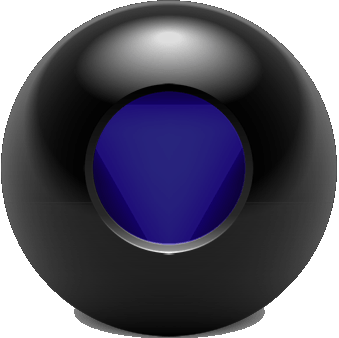
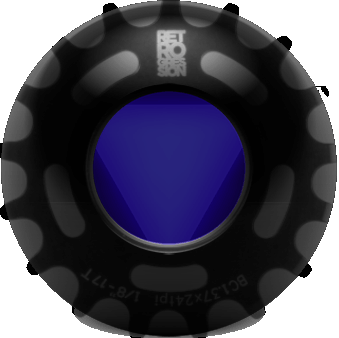
fixed gear

diff --git a/src/main.ts b/src/main.ts
@@ -9,72 +9,46 @@ const fontSizethreshold = 85;
 let currentOption: string | undefined = undefined;
 
 const options = [
-  "Ты забудешь переключиться на правильную ветку и запушишь прямо в `master`",
-  "Твоя следующая миграция базы данных пройдет без ошибок",
-  "Сегодня ты случайно решишь баг, который долго не давал покоя",
-  "Кто-то оставит комментарий в твоем PR, который полностью изменит твою реализацию",
-  "Скоро ты обнаружишь, что дебаггер — твой лучший друг",
-  "Забудешь про `git stash` и потеряешь важные изменения",
-  "В следующем спринте ты станешь героем команды благодаря оптимизации",
-  "Твоя следующая попытка настроить окружение пройдет без боли",
-  "Пакет, на который ты полагаешься, внезапно перестанет поддерживаться",
-  "Твой тест-кейс поймает критический баг в проде",
-  "Напишешь компонент, который идеально соответствует дизайну",
-  "Твой пайплайн внезапно перестанет работать на пустом месте",
-  "Запушишь .env с кредами от прода в master",
-  "Новая версия твоего любимого фреймворка сломает половину твоего проекта",
-  "Кто-то похвалит твой код на ревью",
-  "Ты потратишь час, пытаясь найти незакрытую скобку",
-  "Скоро ты найдешь библиотеку, которая сделает твою задачу в разы проще",
-  "Ты будешь разбираться с merge conflict на протяжении нескольких часов",
-  "Твое решение по доработке логики зарелизит проект до дедлайна",
-  "Перед комитом ты поймешь, что лучше переписать модуль с нуля",
-  "Твоя команда наконец вернется к использованию jQuery",
-  "В коде появится `console.log('here')`, который попадет в прод",
-  "Ты станешь мастером использования `git rebase`",
-  "Ты случайно удалишь ветку, а затем долго будешь ее восстанавливать",
-  "Твой следующий PR будет принят без единого комментария",
-  "Перепишешь проект на другой фреймворк",
-  "Новая зависимость в проекте окажется полной головной болью",
-  "Кто-то предложит архитектурное решение, которое тебе не понравится, но оно сработает",
-  "Ты забудешь про `npm i` и удивишься, почему ничего не работает",
-  "Твой сайт заблокирует РКН",
-  "Уронишь прод (опять)",
-  "Начнешь менторить",
-  "Проспишь стендап (опять)",
-  "Пропадет интернет на твоей очереди говорить на стендапе",
-  "Будешь месяц разбираться с флаки тестами",
-  "Коллеги будут гадать почему тебе вообще платят зарплату",
-  "Заведешь блог по разработке или про мемы",
-  "Купишь эргономичную клавиатуру, но это не поможет",
-  "Будешь работать за лида",
-  "Тебе повысят грейд, но не зп",
-  "Выступишь на HolyJs",
-  "Твоя PR-ветка будет называться fix-final-really-final",
-  "Получишь баг-репорт без шагов воспроизведения и с текстом 'не работает'",
-  "Упадет сервер, и тебе придется дебажить в пятницу вечером",
-  "Забудешь про дедлайн и вспомнишь только в день релиза",
-  "Кто-то сделает force-push в твою ветку",
-  "Будешь дебажить проблему, которая исправится после перезагрузки",
-  "Пропустишь важное сообщение в Slack, а потом пожалеешь об этом",
-  "Сделаешь hotfix на продакшене и сломаешь другой модуль",
-  "Перейдешь на проект с поддержкой IE и Symbian",
-  "На созвоне забудешь про вебку и микрофон и светанешь яйцами",
-  "Случайно отправишь дикпик лиду",
-  "СЕО услышит как ты на самом деле его называешь при коллегах",
-  "Коллеги увидят твой персональный Github и ужаснутся",
-  "Получишь 3000 звезд на Github",
-  "Наконец разберешься с чистой архитектурой",
-  "Твой pet-project станет стартапом года",
-  "Будешь работать над проектом, который войдет в топ GitHub",
-  "Найдешь способ ускорить CI на 90%",
-  "Решишь 10-летнюю проблему команды одним коммитом",
-  "Напишешь код, который никто не сможет улучшить",
-  "Напишешь код с мемори ликами",
-  "Окажется, что твой код уже используют в NASA",
-  "Случайно сделаешь вирусный проект за один вечер",
-  "Твое резюме будет просматривать только СберТех",
-  "Пройдешь алго сессию в Авито за 15 минут",
+  "Купишь мультиспид, кикнут из FG чата",
+  "Соберешь сетап за 200к на алике (потеряется в доставке)",
+  "Шестигранник будет всегда с тобой (проглотишь по синьке)",
+  "Разъебешь камаз на встречке",
+  "Пробьешься дважды в один день",
+  "Перейдешь на безкамерки и будешь часами доказывать в чате что это топ",
+  "Проедешь SKVOZ первым (потом проснешься)",
+  "Проедешь HotLine по Саратову, но корешь забудет включить REC",
+  "Перейдешь на 51/16 и будешь страдать",
+  "Поставишь катафотики (лох)",
+  "Разложишься на рельсах так, что прохожие будут апплодировать",
+  "Погнешь спицы открывая пиво о колесо",
+  "Перейдешь на карбон (но быстрее ездить не станешь)",
+  "Поймешь, что нужно было брать седло с дыркой (но будет поздно)",
+  "Перейдешь на контакты, но следующий сезон будешь копить на ботинки",
+  "Будешь дальше дрочить на Cinelli, но так и не купишь",
+  "Научишься делать bunny hop",
+  "Начнешь курьерить для души",
+  "Депсы поймают за проезд на красный",
+  "Шлем наконец то пригодится",
+  "Тебя поймает полиция зазоров",
+  "Твой вел будет 1923 в bikecheckbot",
+  "Узнаешь, что в велопамперс не надо было срать",
+  "Твоя средняя - 40 в этом сезоне (все думают что ты пиздишь)",
+  "Спиздят задний фонарь (но ты его тоже спиздил)",
+  "Научишься скидить (заебешься менять покрышки)",
+  "Начнешь попадать в стрепы неглядя",
+  "Твое лицо на стикерах FG твоего города",
+  "Из-за твоего стиля езды кореша начнут думать, что ты натурал",
+  "Начнешь брить ноги ради аэродинамики",
+  "Погнешь раму и твоя реакция на это станет мемом в чате",
+  "Въебешься в курьера (получишь пиццу в качестве извенений)",
+  "Твой вел угонят, но поймут что гейская хуйня и вернут",
+  "Станешь дальтоником и будешь спокойно ездить на серый",
+  "Поставишь 2 тормоза, кикнут из FG чата",
+  "Купишь джерси (максимально гейскую)",
+  "Пафосно въебешься в толпу пешеходов на красном",
+  "Мать узнает что такое fixed gear и вызовет дурку",
+  "Скрип твоей каретки будет слышно за 2 квартала",
+  "Отец пропьет твой вилсет (и это будет финансово правильно)",
 ];
 
 const main = document.querySelector("#ball");
@@ -166,15 +140,15 @@ async function share(e: MouseEvent) {
   if (
     navigator.canShare &&
     navigator.canShare({
-      title: "Mагический шар - Coder Edition",
+      title: "Mагический шар - Fixed Gear Edition",
       url: "https://jem-space.ru/ball",
-      text: `В 2025 мне нагадали: ${currentOption} `,
+      text: `В 2026 мне нагадали: ${currentOption} `,
     })
   ) {
     try {
       await navigator.share({
-        title: "Mагический шар - Coder Edition",
-        text: `В 2025 мне нагадали: ${currentOption}.
+        title: "Mагический шар - Fixed Gear Edition",
+        text: `В 2026 мне нагадали: ${currentOption}.
 `,
         url: "https://jem-space.ru/ball",
       });

diff --git a/index.html b/index.html
@@ -4,10 +4,10 @@
     <meta charset="UTF-8" />
     <link rel="preload" href="./public/ball.png" as="image" />
     <meta name="viewport" content="width=device-width, initial-scale=1.0" />
-    <title>Магический шар Coder Edition</title>
-    <meta property="description" content="Магический шар Coder Edition" />
+    <title>Магический шар Fixed Gear Edition</title>
+    <meta property="description" content="Магический шар Fixed Gear Edition" />
 
-    <meta property="og:title" content="Магический шар Coder Edition" />
+    <meta property="og:title" content="Магический шар Fixed Gear Edition" />
     <meta
       property="og:description"
       content="Узнай, что приготовил тебе наступающий год"
@@ -26,8 +26,8 @@
       <div id="app">
         <section class="header">
           <div class="title">
-            <h1>Магический шар 2025</h1>
-            <span>Coder Edition</span>
+            <h1>Магический шар 2026</h1>
+            <span>Fixed Gear Edition</span>
           </div>
           <a href="https://t.me/five_a_m" target="_blank"
             ><img src="/public/telegram.png"
@@ -53,8 +53,10 @@
           </div>
         </div>
       </div>
-      <a href="#" class="share-link invisible" id="share">Поделиться</a>
-      <a href="#" class="share-link invisible" id="download">Скачать</a>
+      <div class="links">
+        <a href="#" class="share-link invisible" id="share">Поделиться</a>
+        <a href="#" class="share-link invisible" id="download">Скачать предсказание</a>
+      </div>
     </div>
 
     <footer>Made with ❤ by <a href="https://t.me/jem_jem">jem_jem</a></footer>

diff --git a/src/style.css b/src/style.css
@@ -335,11 +335,19 @@ p {
   border-radius: 10px;
   text-decoration: none;
   box-shadow: 2px 2px 0px #fbb22a;
-  width: 100px;
+  width: 200px;
 }
 
 .share-link.invisible {
   display: none;
+}
+
+.links {
+  display: flex;
+  justify-content: center;
+  flex-direction: column;
+  align-items: center;
+  gap: 6px
 }
 
 footer {
